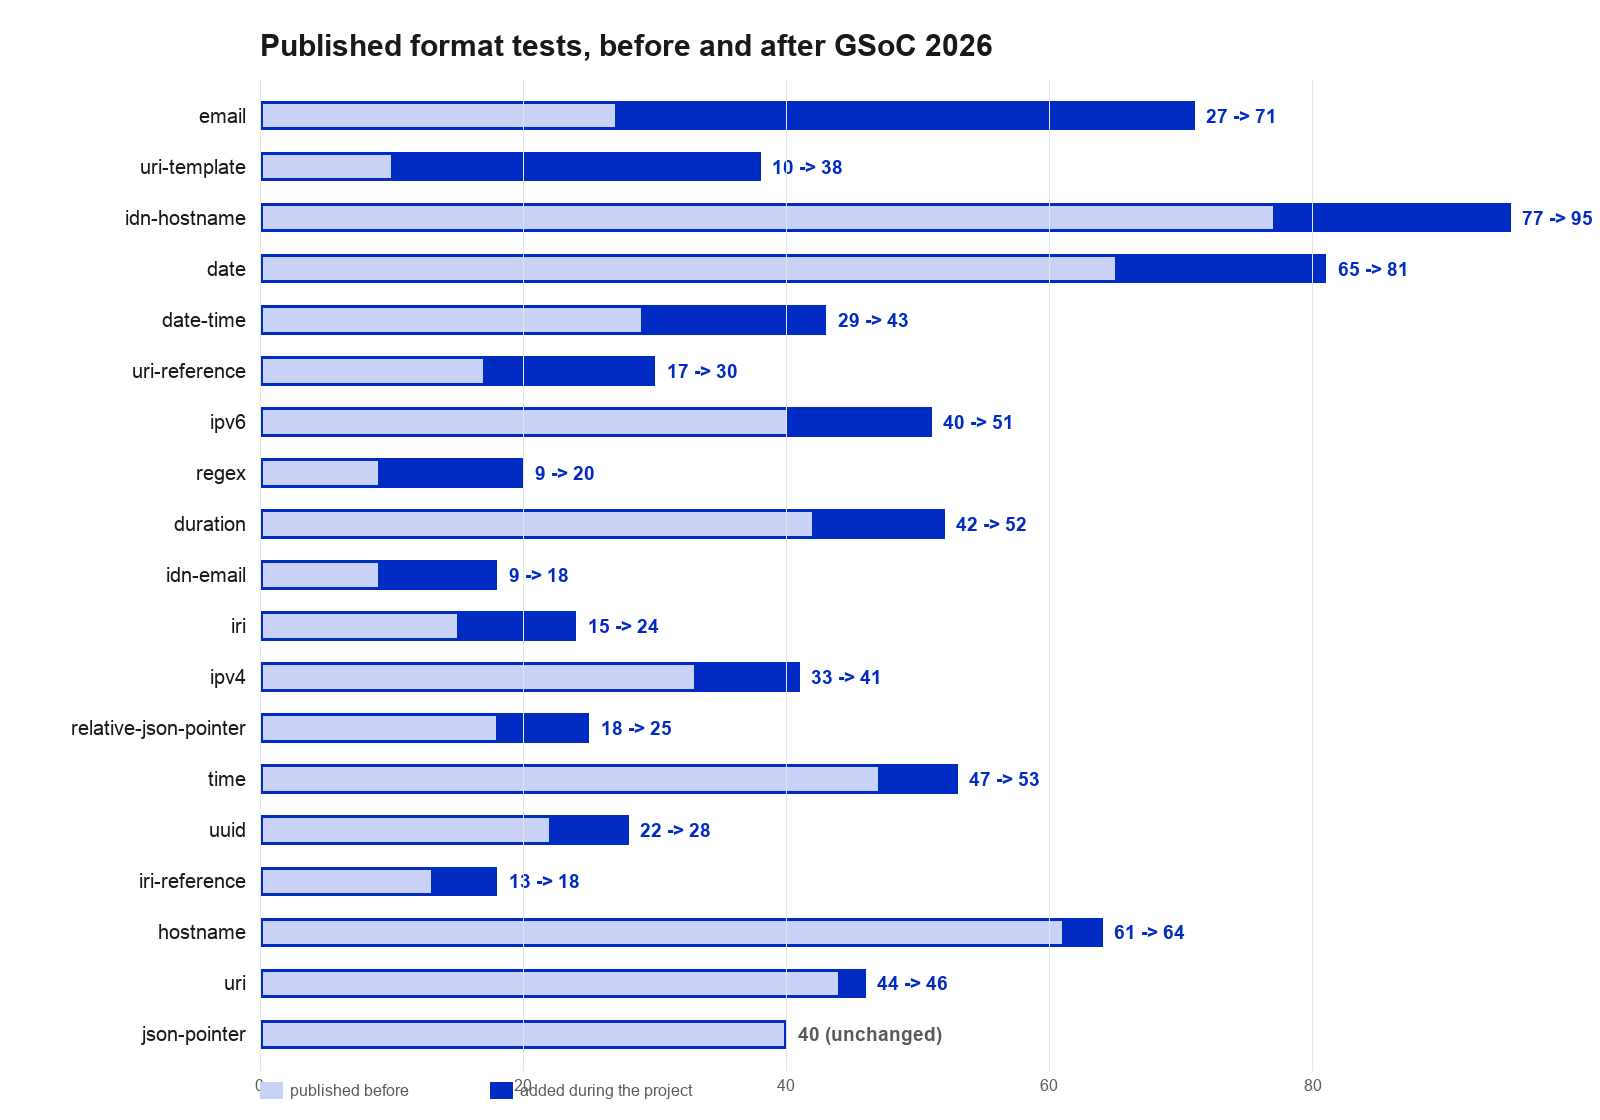
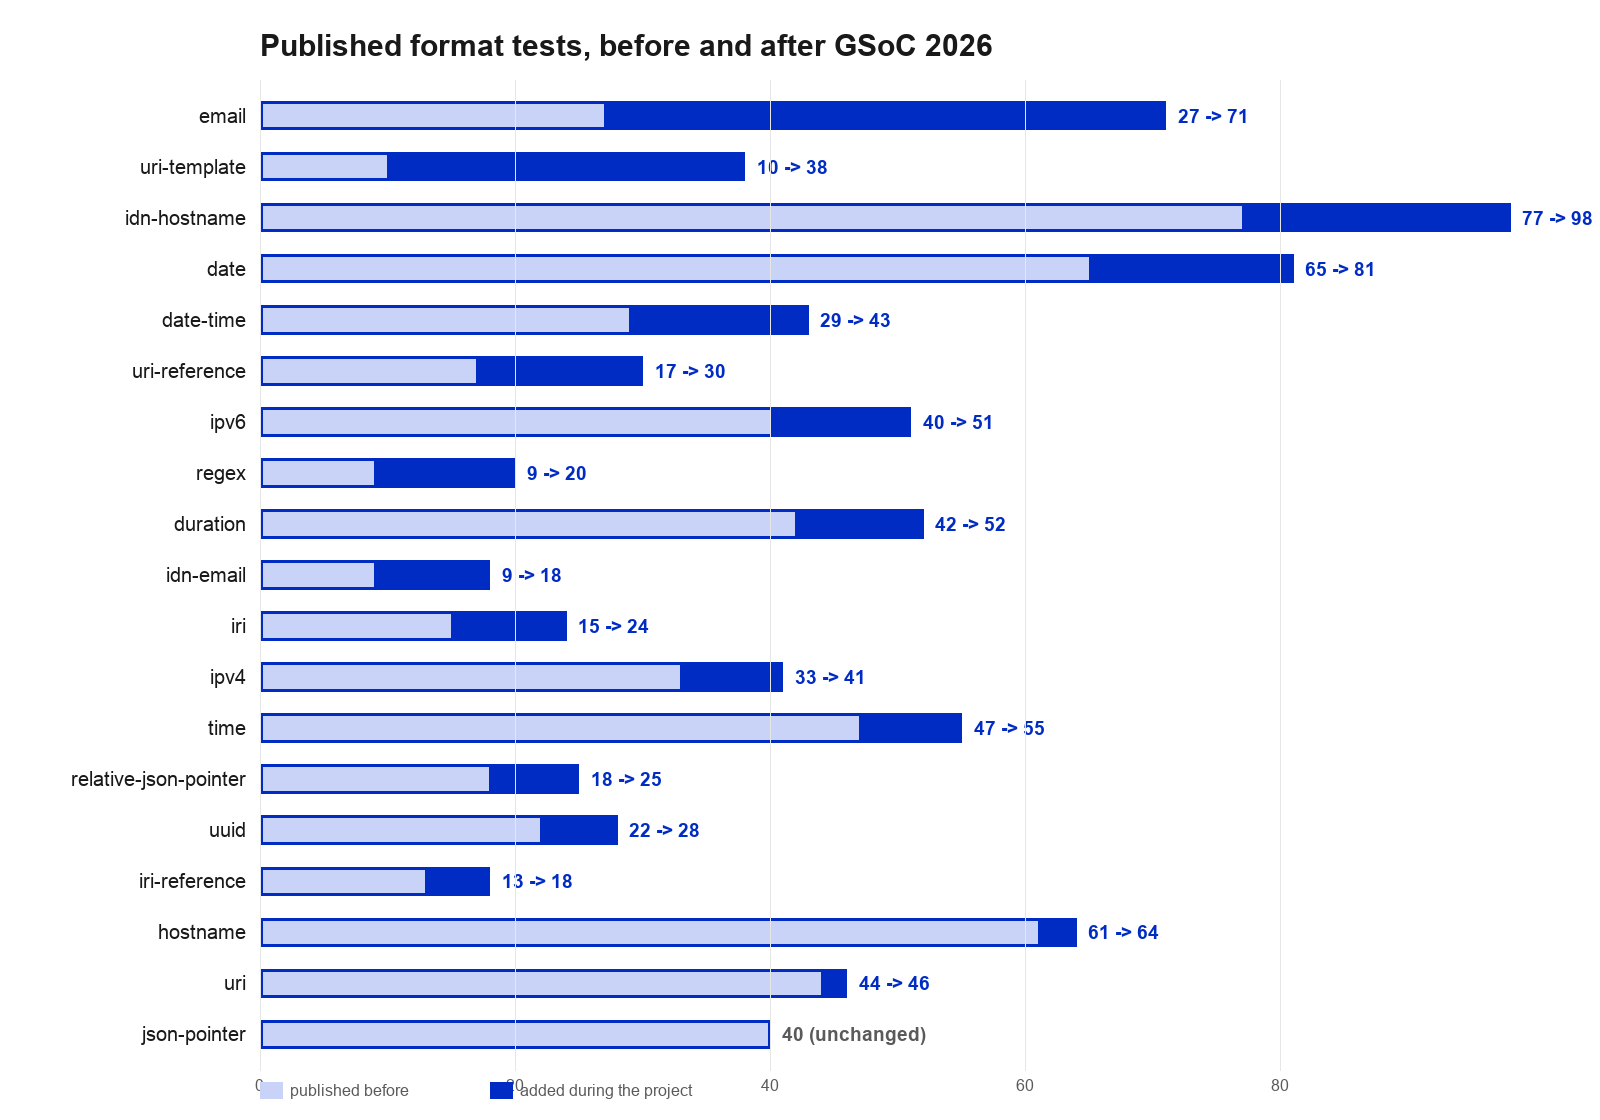
docs(blog): update totals and chart to current merge state
Seven more suite PRs merged since the last push. Test counts move from
618 -> 843 (+225), merged totals to 107 suite plus 23 core, and three
still in review. Chart regenerated to match.

diff --git a/pages/blog/posts/gsoc26-format-test-suite.md b/pages/blog/posts/gsoc26-format-test-suite.md
@@ -10,7 +10,7 @@ authors:
     photo: /img/avatars/vtushar06.jpg
     link: https://github.com/vtushar06
     byline: GSoC 2026 Contributor @ JSON Schema
-excerpt: "A GSoC 2026 project put every format keyword value against the RFC it's supposed to follow. 126 merged pull requests later, here is what was actually wrong, in how many real validators, and what it means for anyone relying on format."
+excerpt: "A GSoC 2026 project put every format keyword value against the RFC it's supposed to follow. 130 merged pull requests later, here is what was actually wrong, in how many real validators, and what it means for anyone relying on format."
 ---
 
 JSON Schema's `format` keyword asserts that a string looks like an email address, an IPv6 address, a date, a URI, and so on. This year, [Google Summer of Code](https://summerofcode.withgoogle.com/) funded a project at JSON Schema to check whether that assertion is actually true - not against what implementations happen to do, but against the RFC each format value points at.
@@ -101,7 +101,7 @@ The clearest single measure is the published test suite itself. Comparing the `f
 
 ![Published format tests, before and after GSoC 2026 - a bar chart per format showing the test count before the project against the test count after](/img/posts/2026/gsoc26-tushar/format-growth-chart.png)
 
-Published `format` tests across the 19 formats tracked grew from **618 to 838** over the project - a net addition of 220 tests, essentially all of it landing through this project's pull requests. `duration`, `idn-email`, and the `regex` dialect tests had close to no dedicated coverage before this and now have a real baseline. `email` alone more than doubled, from 27 to 71. One format, `json-pointer`, needed no additions at all - its existing coverage held up against the same testing everything else went through.
+Published `format` tests across the 19 formats tracked grew from **618 to 843** over the project - a net addition of 225 tests, essentially all of it landing through this project's pull requests. `duration`, `idn-email`, and the `regex` dialect tests had close to no dedicated coverage before this and now have a real baseline. `email` alone more than doubled, from 27 to 71. One format, `json-pointer`, needed no additions at all - its existing coverage held up against the same testing everything else went through.
 
 The work also landed in a second repository. The project was mentored by [Juan Cruz Viotti](https://github.com/jviotti), who maintains [sourcemeta/core](https://github.com/sourcemeta/core) - the C++ library behind [Blaze](https://github.com/sourcemeta/blaze) - so a large part of the effort went into building out its `format` support and test coverage alongside the suite itself. That pairing was useful in both directions: the suite defined what correct behaviour is, and implementing it against a real validator immediately exposed the cases where the definition was underspecified.
 
@@ -109,14 +109,14 @@ Total delivered across both repositories:
 
 | | merged | in review |
 |---|---:|---:|
-| [JSON-Schema-Test-Suite](https://github.com/json-schema-org/JSON-Schema-Test-Suite) | **103** | 7 |
+| [JSON-Schema-Test-Suite](https://github.com/json-schema-org/JSON-Schema-Test-Suite) | **107** | 3 |
 | [sourcemeta/core](https://github.com/sourcemeta/core) | **23** | 0 |
-| **total** | **126** | **7** |
+| **total** | **130** | **3** |
 
 `regex` (ECMA-262 dialect validity) was added to the project's scope partway through, alongside the 18 formats already in the specification - which is why it appears in the totals despite starting from close to nothing.
 
 ## What is still open
 
-Two format questions remain unresolved and are waiting on maintainer rulings rather than more testing: whether the ECMA-262 regex dialect tests should include the Annex B / Unicode-mode-dependent cases, and how the `idn-hostname` / `idn-email` tests should target IDNA profile differences per dialect ([suite#1132](https://github.com/json-schema-org/JSON-Schema-Test-Suite/issues/1132)). Seven pull requests are still in review, mostly `time` coverage.
+Two format questions remain unresolved and are waiting on maintainer rulings rather than more testing: whether the ECMA-262 regex dialect tests should include the Annex B / Unicode-mode-dependent cases, and how the `idn-hostname` / `idn-email` tests should target IDNA profile differences per dialect ([suite#1132](https://github.com/json-schema-org/JSON-Schema-Test-Suite/issues/1132)). Three pull requests are still in review.
 
 The larger point the numbers support: `format` was under-tested primarily because nobody had gone through the exercise of treating each format as its own specification and checking real implementations against it end to end. Once that exercise happened, every format examined turned up at least one real, shipping validator getting something wrong. The [evidence repository](https://github.com/vtushar06/JSON-Schema-format-test-Evidence) has the full input-by-input detail, with reproduction commands, for anyone who wants to check a specific case or extend the method to a format not covered here.
